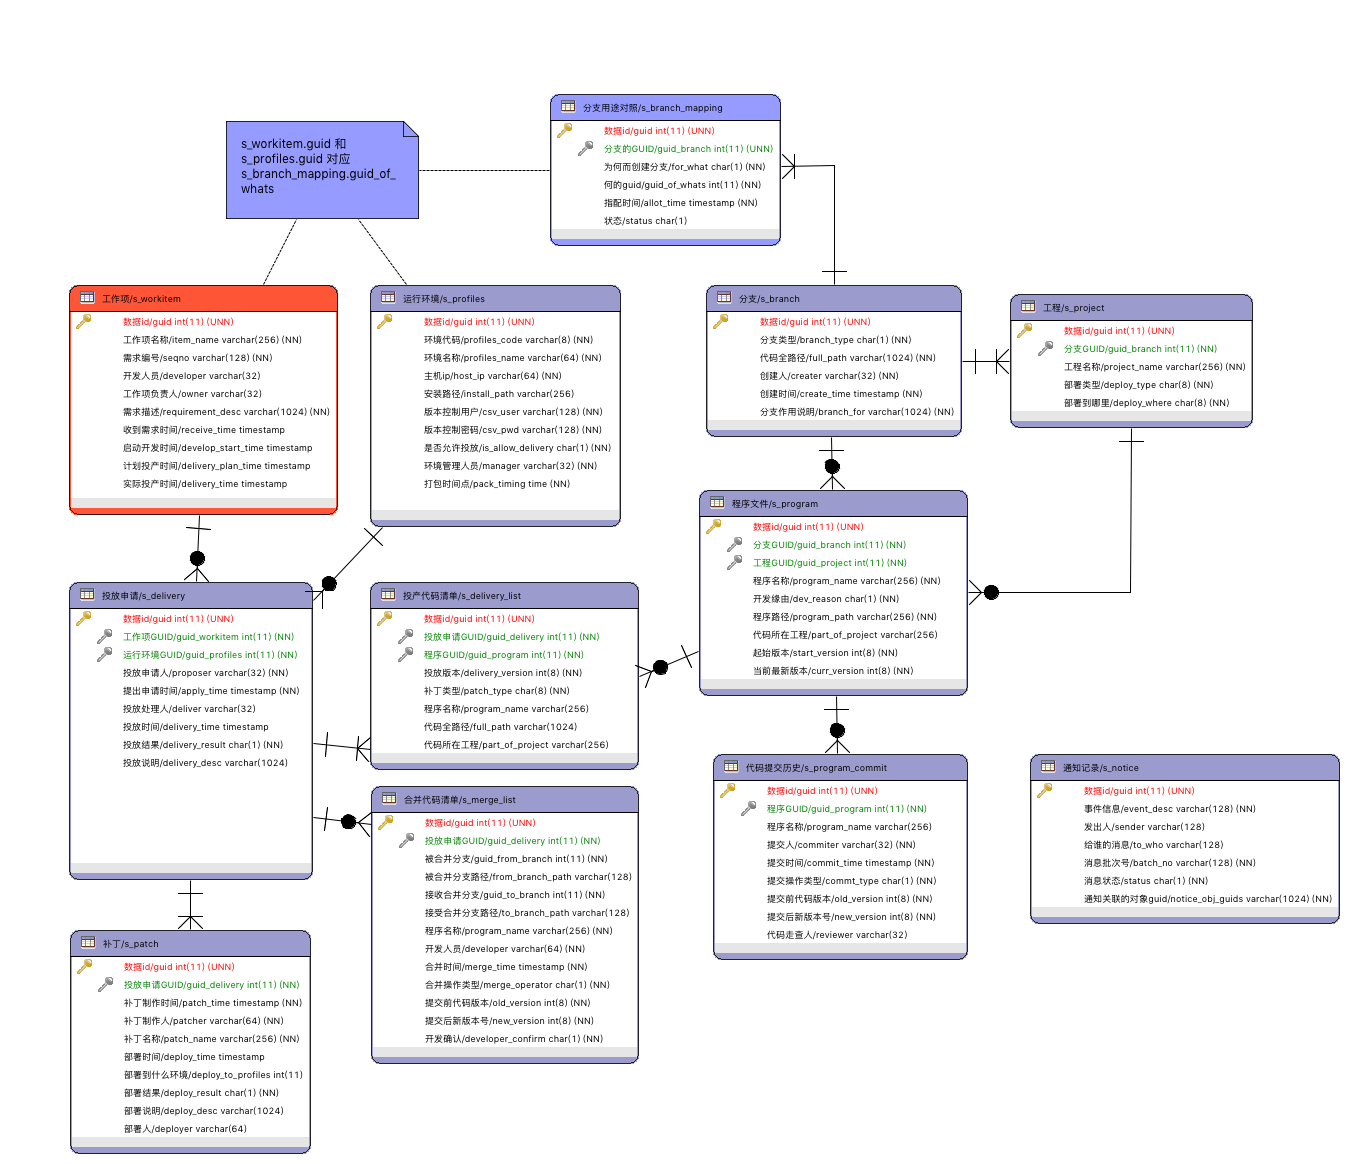
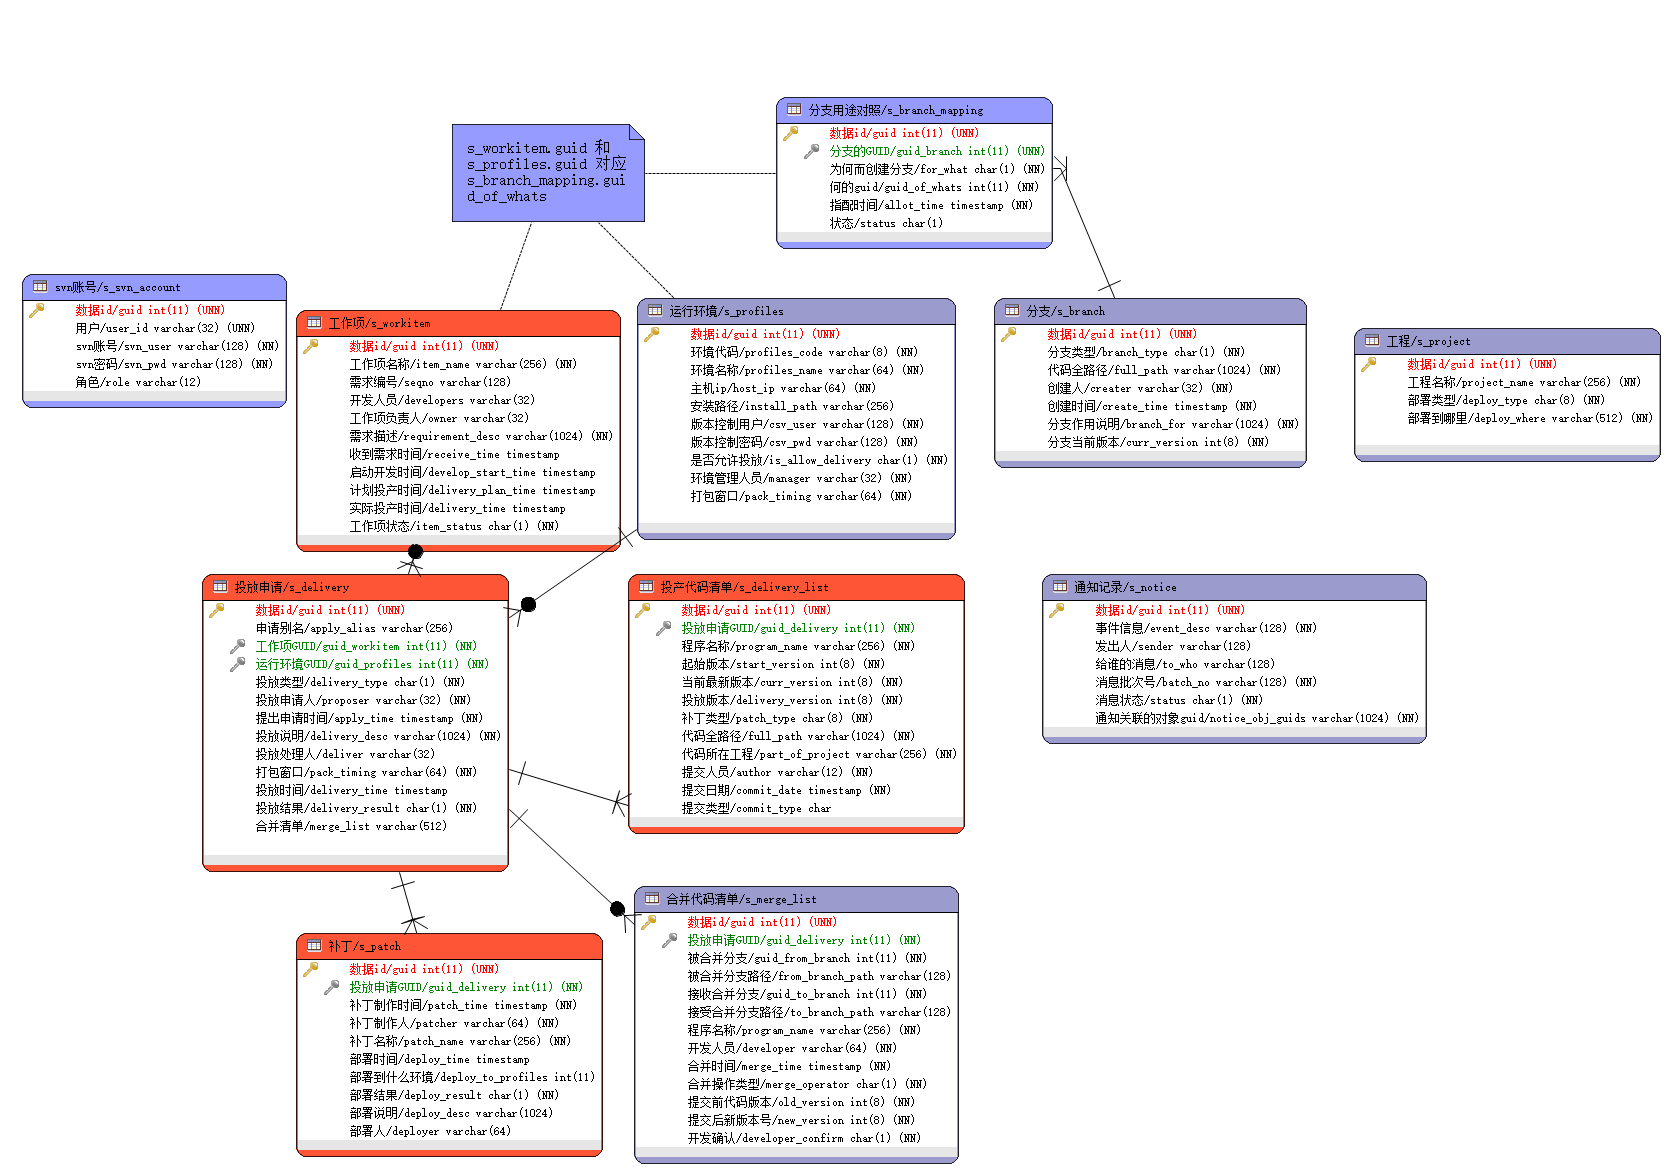
合并清单

Changed region(s): [[0.0, 0.0619, 0.9956, 1.0]]

diff --git a/src/main/java/org/tis/senior/module/developer/service/impl/SDeliveryServiceImpl.java b/src/main/java/org/tis/senior/module/developer/service/impl/SDeliveryServiceImpl.java
@@ -10,6 +10,7 @@ import org.tis.senior.module.developer.controller.request.MergeDeliveryRequest;
 import org.tis.senior.module.developer.dao.SDeliveryMapper;
 import org.tis.senior.module.developer.entity.*;
 import org.tis.senior.module.developer.entity.enums.BranchForWhat;
+import org.tis.senior.module.developer.entity.enums.DeliveryType;
 import org.tis.senior.module.developer.entity.enums.PatchType;
 import org.tis.senior.module.developer.entity.vo.DeliveryDetail;
 import org.tis.senior.module.developer.entity.vo.DeliveryProjectDetail;
@@ -17,9 +18,7 @@ import org.tis.senior.module.developer.exception.DeveloperException;
 import org.tis.senior.module.developer.service.*;
 
 import javax.swing.text.html.parser.Entity;
-import java.util.HashMap;
-import java.util.List;
-import java.util.Map;
+import java.util.*;
 import java.util.stream.Collectors;
 
 /**
@@ -95,10 +94,27 @@ public class SDeliveryServiceImpl extends ServiceImpl<SDeliveryMapper, SDelivery
     @Override
     public void mergeDeliver(MergeDeliveryRequest mergeDelivery, String userId) {
         List<SDelivery> deliveryList = isAllowMerge(mergeDelivery.getMergeList());
+        List<SDelivery> insert = new ArrayList<>(deliveryList.size());
+        // 合并为一个投产申请,每个环境形成一个独立的投放申请
         mergeDelivery.getProfiles().forEach(p -> {
-
+            SDelivery sDelivery = new SDelivery();
+            sDelivery.setGuidProfiles(p.getGuidProfiles());
+            sDelivery.setPackTiming(p.getPackTiming());
+            sDelivery.setDeliveryType(DeliveryType.MERGE);
+            sDelivery.setMergeList(mergeDelivery.getMergeList().stream().reduce("", (r, s) -> r + "," + s));
+            sDelivery.setApplyAlias(deliveryList.stream()
+                    .map(SDelivery::getApplyAlias).reduce("合并投放", (r, s) -> r + "，" + s));
+            sDelivery.setApplyTime(new Date());
+            sDelivery.setProposer(userId);
+            insert.add(sDelivery);
         });
+        // FIXME 合并申请与普通申请,其代码清单是相同的，所以无需再生成新清单
+        insertBatch(insert);
+    }
 
+    @Override
+    public DeliveryDetail check(String profileId) {
+        return null;
     }
 
     /**

diff --git a/src/main/java/org/tis/senior/module/developer/controller/SDeliveryController.java b/src/main/java/org/tis/senior/module/developer/controller/SDeliveryController.java
@@ -20,6 +20,7 @@ import org.hibernate.validator.constraints.NotBlank;
  */
 @RestController
 @RequestMapping("/deliveries")
+@Validated
 public class SDeliveryController extends BaseController<SDelivery>  {
 
     @Autowired
@@ -57,12 +58,15 @@ public class SDeliveryController extends BaseController<SDelivery>  {
         return  ResultVO.success("查询成功", sDeliveryService.selectPage(getPage(page), getCondition(page)));
     }
 
+    /**
+     * 获取合并投放清单信息
+     * @param request
+     * @return
+     */
     @PostMapping("/merge/info")
     public ResultVO mergeInfo(@RequestBody @Validated MergeDeliveryRequest request) {
         return ResultVO.success(sDeliveryService.getMergeInfo(request, getUser().getUserId()));
     }
-
-
 
 
     /**
@@ -76,6 +80,12 @@ public class SDeliveryController extends BaseController<SDelivery>  {
     public ResultVO merge(@RequestBody @Validated MergeDeliveryRequest request) {
         sDeliveryService.mergeDeliver(request, getUser().getUserId());
         return ResultVO.success("申请合并投放成功！");
+    }
+
+    @PostMapping("/profile/{id}/check")
+    public ResultVO merge(@NotBlank(message = "环境不能为空！") String id) {
+        DeliveryDetail detail = sDeliveryService.check(id);
+        return ResultVO.success(detail);
     }
     
 }

diff --git a/src/main/java/org/tis/senior/module/developer/entity/SDelivery.java b/src/main/java/org/tis/senior/module/developer/entity/SDelivery.java
@@ -8,6 +8,7 @@ import com.baomidou.mybatisplus.annotations.TableId;
 import org.tis.senior.module.core.entity.enums.CommonEnumDeserializer;
 import org.tis.senior.module.developer.entity.enums.DeliveryResult;
 import org.tis.senior.module.developer.entity.enums.DeliveryType;
+import org.tis.senior.module.developer.entity.enums.PackTime;
 
 import java.io.Serializable;
 
@@ -215,7 +216,8 @@ public class SDelivery implements Serializable {
      * 打包窗口:本环境对应的打包窗口时间，用业务字典来实现
      * 如：SIT_PACK_TIMING，其中字典值为，09:00、12:30、16:00
      */
-    private String packTiming;
+    @JSONField(deserializeUsing = CommonEnumDeserializer.class)
+    private PackTime packTiming;
 
     /**
      * 投放时间

diff --git a/src/main/java/org/tis/senior/module/core/config/SvnProperties.java b/src/main/java/org/tis/senior/module/core/config/SvnProperties.java
@@ -1,0 +1,33 @@
+package org.tis.senior.module.core.config;
+
+import org.springframework.boot.context.properties.ConfigurationProperties;
+
+/**
+ * description:
+ *
+ * @author zhaoch
+ * @date 2018/6/25
+ **/
+@ConfigurationProperties(prefix = "tis.svn")
+public class SvnProperties {
+
+    private String userName;
+
+    private String password;
+
+    public String getUserName() {
+        return userName;
+    }
+
+    public void setUserName(String userName) {
+        this.userName = userName;
+    }
+
+    public String getPassword() {
+        return password;
+    }
+
+    public void setPassword(String password) {
+        this.password = password;
+    }
+}

diff --git a/src/main/java/org/tis/senior/module/developer/service/ISDeliveryService.java b/src/main/java/org/tis/senior/module/developer/service/ISDeliveryService.java
@@ -28,5 +28,11 @@ public interface ISDeliveryService extends IService<SDelivery>  {
      */
     void mergeDeliver(MergeDeliveryRequest mergeDelivery, String userId);
 
+    /**
+     * 核对合并清单
+     * @param profileId
+     * @return
+     */
+    DeliveryDetail check(String profileId);
 }
 

diff --git a/src/main/java/org/tis/senior/module/core/config/ShiroConfig.java b/src/main/java/org/tis/senior/module/core/config/ShiroConfig.java
@@ -20,7 +20,7 @@ import java.util.Map;
 @Configuration
 public class ShiroConfig {
 
-    @Value("${shiro.enable}")
+    @Value("${tis.shiro.enable}")
     private boolean enable;
 
     @Bean
